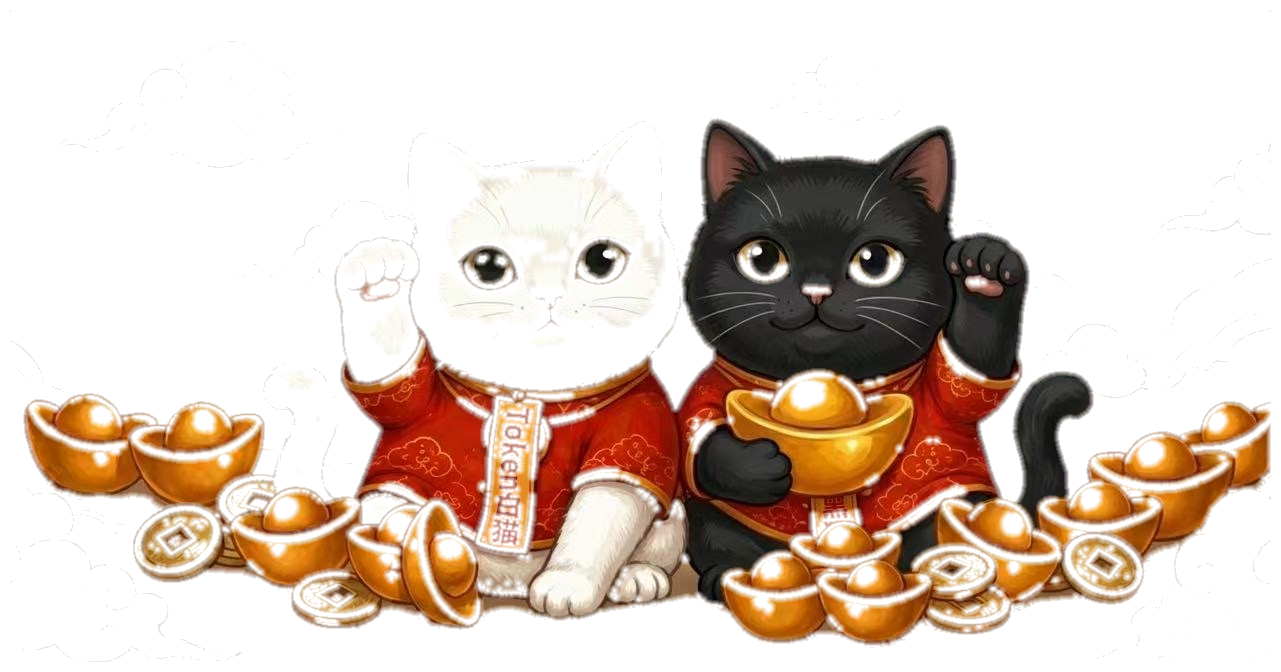
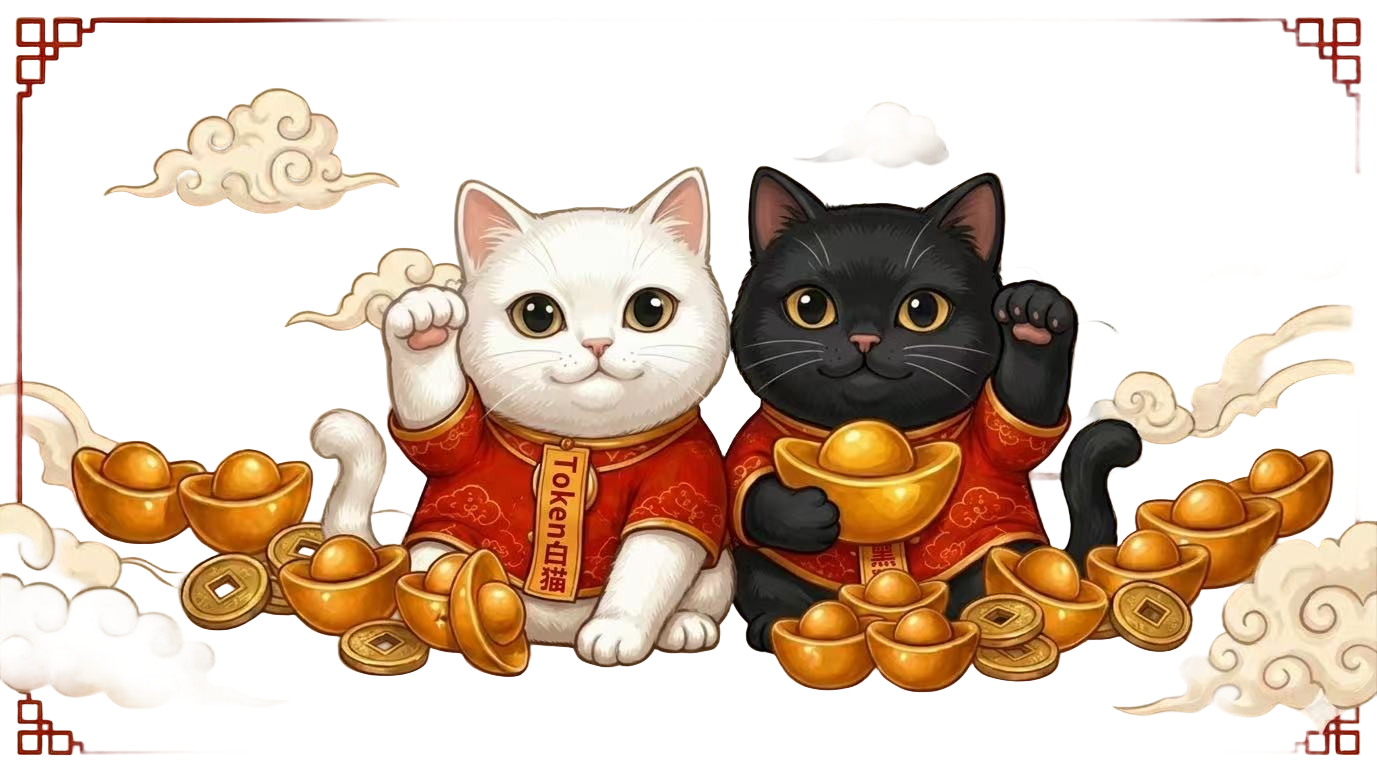
Update cat illustrations, slide layout, and UI polish
- Replace cat images with bg-removed illustrated PNGs (both/token/title)
- S2: circular avatars, smaller ear PNGs, 6+5 row layout, no border on ears
- S3: bigger title, mentors vertically centered in remaining space
- S1: remove duplicate 领航十一期 banner at bottom
- Sound default muted (🔇); font sizes increased on S2/S3 titles

diff --git a/index-v3.html b/index-v3.html
@@ -257,7 +257,7 @@ html,body{width:100%;height:100%;overflow:hidden;background:#f0ddb4;font-family:
 .cat-real-img-sm{width:140px;height:140px;object-fit:contain;border-radius:0;filter:drop-shadow(0 3px 10px rgba(0,0,0,0.25))}
 /* Summit combined cats on S10 */
 /* Summit climbing cats — left & right mountain paths */
-.summit-climbing-cat{position:absolute;width:72px;height:72px;object-fit:cover;object-position:top;border-radius:50%;border:3px solid #f7d97e;box-shadow:0 0 18px rgba(247,217,126,0.65),0 3px 14px rgba(0,0,0,0.55);z-index:5;opacity:0}
+.summit-climbing-cat{position:absolute;width:80px;height:80px;object-fit:contain;border-radius:0;border:none;filter:drop-shadow(0 0 10px rgba(247,217,126,0.8)) drop-shadow(0 3px 8px rgba(0,0,0,0.5));z-index:5;opacity:0}
 /* LEFT PATH: M620,580 Q720,440 820,320 Q880,250 → diverge left to flank 经济 column */
 @keyframes catClimbL{
   0%  {opacity:0;left:32%;bottom:2%;transform:scale(0.45) rotate(-5deg)}
@@ -336,7 +336,7 @@ html,body{width:100%;height:100%;overflow:hidden;background:#f0ddb4;font-family:
 @keyframes qrBurst{from{opacity:0;transform:scale(0.5)}to{opacity:1;transform:scale(1)}}
 @keyframes qrWiggle11{0%,80%,100%{transform:scale(1) rotate(0)}84%{transform:scale(1) rotate(-3deg)}88%{transform:scale(1) rotate(3deg)}92%{transform:scale(1) rotate(-2deg)}96%{transform:scale(1) rotate(1deg)}}
 .qr11-side-cats{display:flex;flex-direction:column;gap:12px;align-items:center}
-.qr11-side-cat-img{width:100px;height:100px;object-fit:cover;object-position:top;border-radius:10px;box-shadow:0 3px 14px rgba(0,0,0,0.25);border:3px solid #a01818}
+.qr11-side-cat-img{width:120px;height:120px;object-fit:contain;border-radius:0;box-shadow:none;border:none;filter:drop-shadow(0 3px 10px rgba(0,0,0,0.3))}
 .qr11-sub{font-size:1.35rem;color:#5a1a0a;text-align:center;font-weight:600;line-height:1.6;opacity:0}
 .qr11-sub.show{animation:fadeUp 0.5s ease 0.8s both}
 .qr11-vote{font-size:1.7rem;color:#a01818;font-weight:900;letter-spacing:0.12em;
@@ -641,8 +641,9 @@ html,body{width:100%;height:100%;overflow:hidden;background:#f0ddb4;font-family:
 #s1 .corner,#s2 .corner,#s3 .corner,
 #s4 .corner,#s5 .corner,#s11 .corner { display:none; }
 
-/* S3 mentor slide: push content toward top */
+/* S3 mentor slide: title at top, mentors fill remaining space centered */
 #s3 .parchment { justify-content: flex-start; padding-top: 28px; }
+#s3 .mentors-row { flex: 1; align-items: center; }
 
 /* V3 couplet wrap: keep gold outer border but transparent centre bg */
 #s6 .v3-wrap,#s7 .v3-wrap,#s8 .v3-wrap,#s9 .v3-wrap {
@@ -820,7 +821,6 @@ html,body{width:100%;height:100%;overflow:hidden;background:#f0ddb4;font-family:
     <div class="p0-subtitle">· 求 符 记 ·</div>
     <div class="p0-center-text">我们不是因为爱财，而是想搞清楚 ——<br/>什么才是 · <span class="gold-hi">真正的</span> · 暴富</div>
     <div class="p0-tagline">两猫四符 · 9 个月开富修行</div>
-    <div class="p0-banner" style="margin-top:8px">⚜ 领航十一期 · E 夜暴富 · 2026.05.17 ⚜</div>
   </div>
 </section>
 
